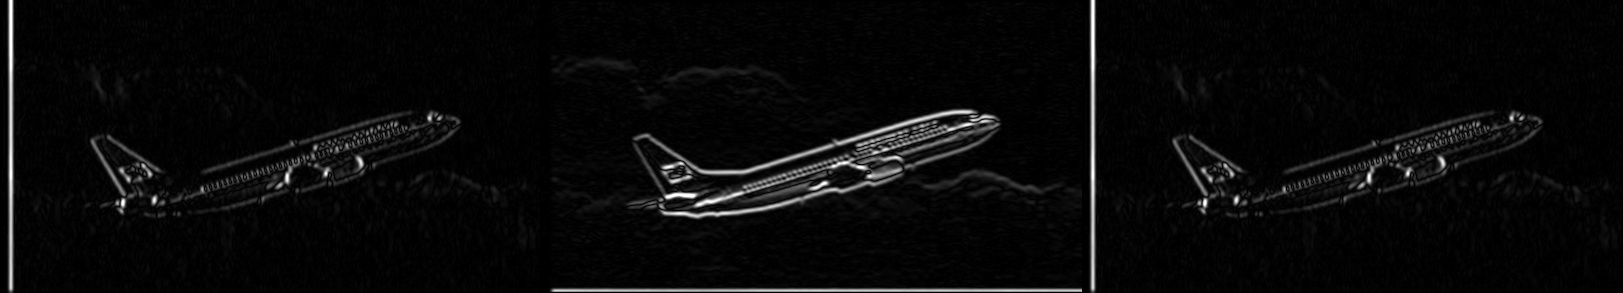
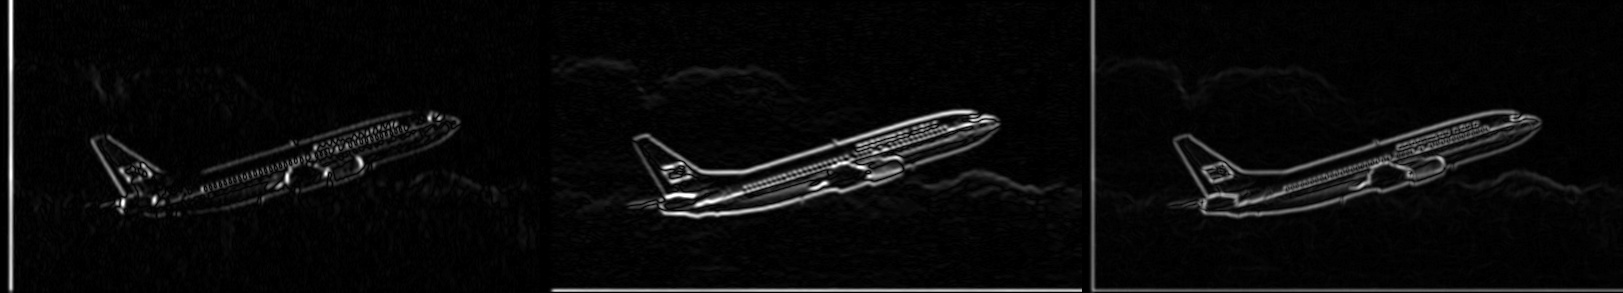
second commit

Changed region(s): [[0.7086, 0.3686, 0.955, 0.7372], [0.647, 0.0, 0.6778, 0.7679], [0.647, 0.7986, 1.0, 1.0]]

diff --git a/hw2.py b/hw2.py
@@ -1,6 +1,5 @@
 import cv2
 import numpy as np
-import scipy
 from matplotlib import pyplot as plt
 
 
@@ -52,7 +51,7 @@ for i in range(imgnum):
 	gray_img_edgey = cv2.Sobel(gray_img, cv2.CV_16S, 0, 1)
 	gray_img_edgeabsx = cv2.convertScaleAbs(gray_img_edgex)
 	gray_img_edgeabsy = cv2.convertScaleAbs(gray_img_edgey)
-	gray_img_edge = cv2.addWeighted(gray_img_edgeabsx, 0.5, gray_img_edgeabsx, 0.5, 0)
+	gray_img_edge = cv2.addWeighted(gray_img_edgeabsx, 0.5, gray_img_edgeabsy, 0.5, 0)
 	gray_edge = np.hstack((gray_img_edgeabsx, gray_img_edgeabsy, gray_img_edge))
 	cv2.imwrite(str(i) + '/Edge_gray' + '.jpg', gray_edge)
 
@@ -62,7 +61,7 @@ for i in range(imgnum):
 	eq_img_edgey = cv2.Sobel(eq_img, cv2.CV_16S, 0, 1)
 	eq_img_edgeabsx = cv2.convertScaleAbs(eq_img_edgex)
 	eq_img_edgeabsy = cv2.convertScaleAbs(eq_img_edgey)
-	eq_img_edge = cv2.addWeighted(eq_img_edgeabsx, 0.5, eq_img_edgeabsx, 0.5, 0)
+	eq_img_edge = cv2.addWeighted(eq_img_edgeabsx, 0.5, eq_img_edgeabsy, 0.5, 0)
 	eq_edge = np.hstack((eq_img_edgeabsx, eq_img_edgeabsy, eq_img_edge))
 	cv2.imwrite(str(i) + '/Edge_equalization' + '.jpg', eq_edge)
 
